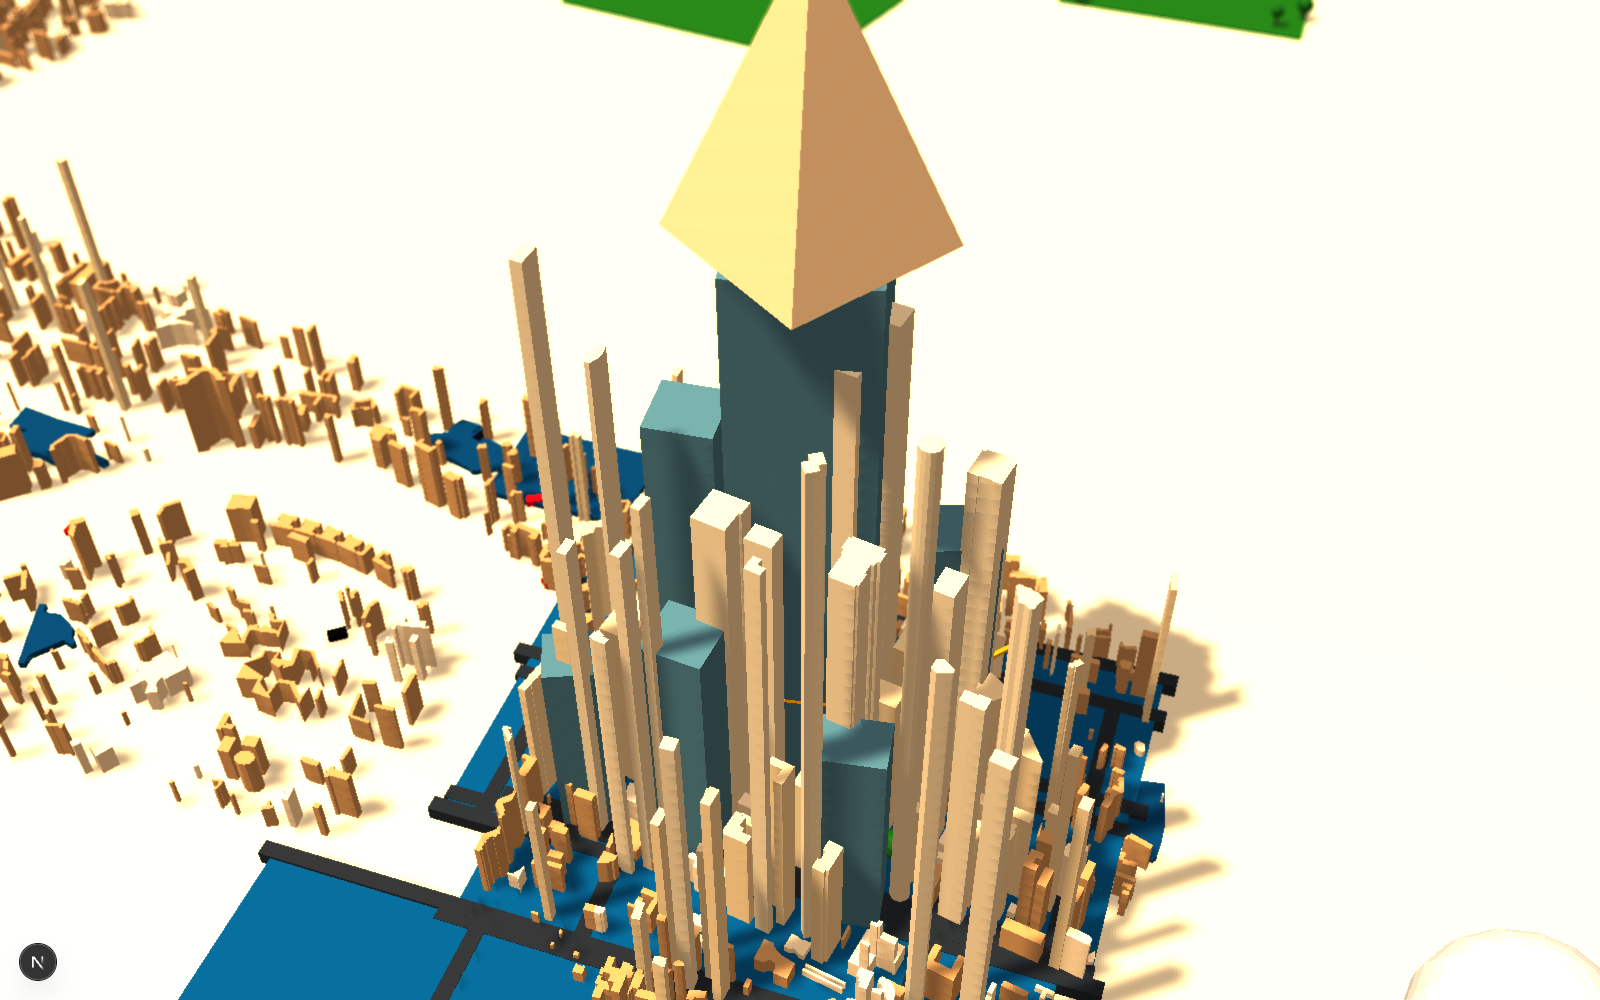
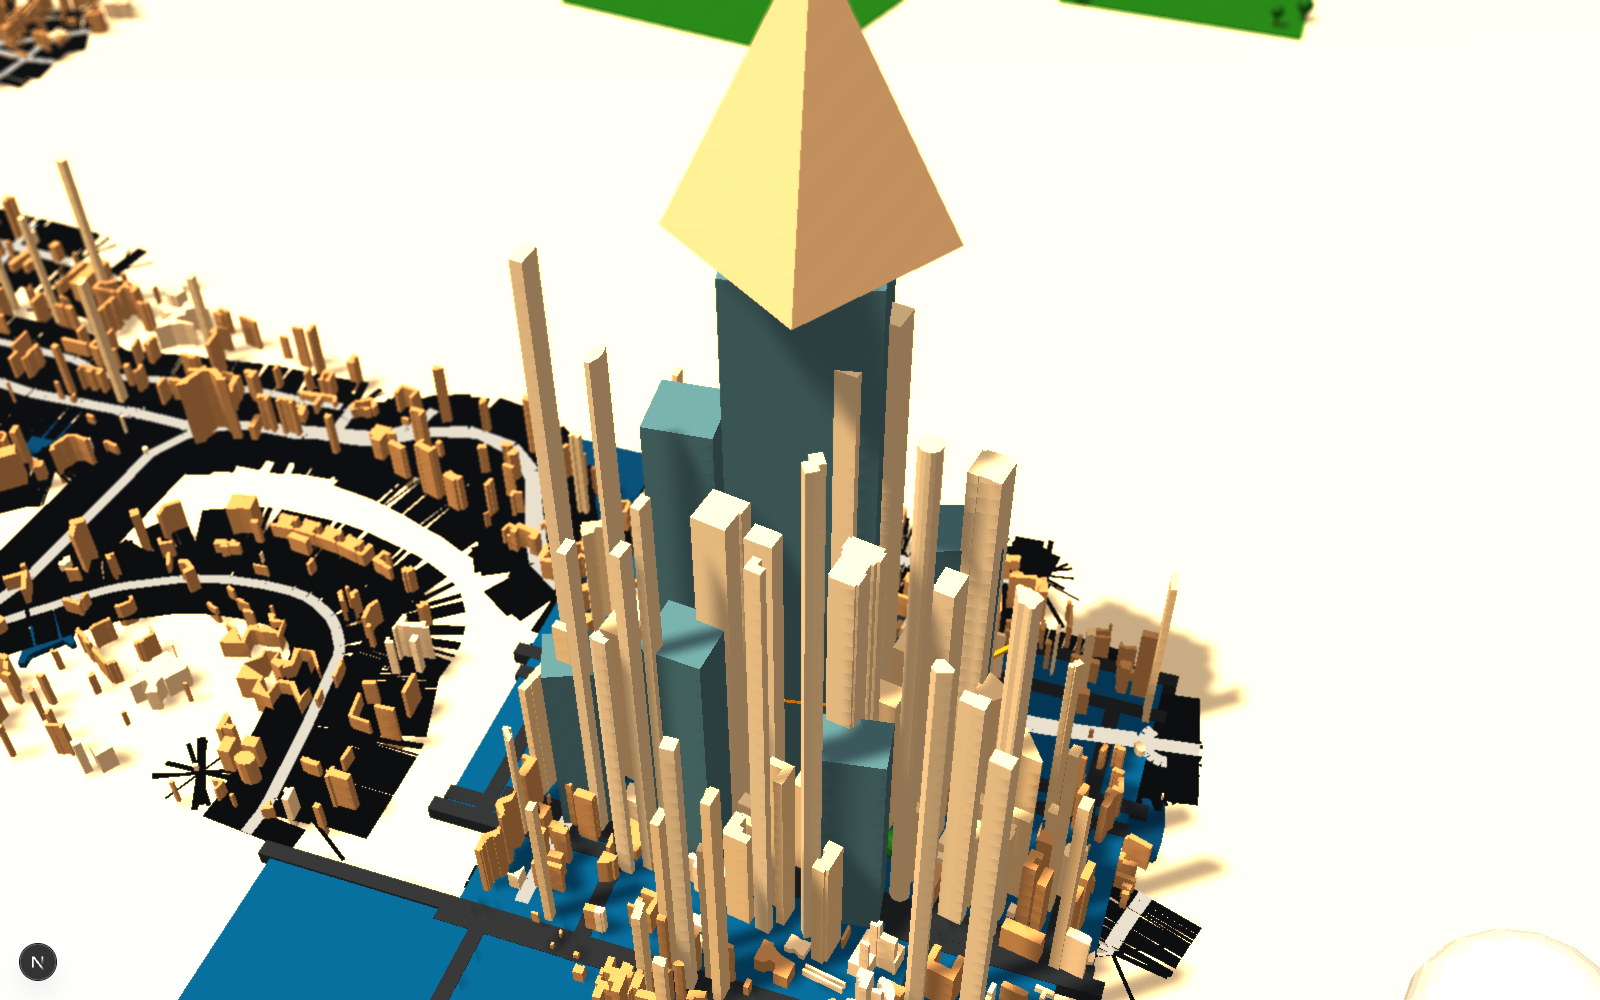
Show OSM street ribbons from the city camera and reshoot stills.
Per-segment quads were facing the land, so the whole-board view culled
the asphalt. Draw both sides, keep the cream lane paint, and replace the
whole-board, Shoreditch, and Canary stills. Camden is unchanged.

diff --git a/lib/game/board.ts b/lib/game/board.ts
@@ -276,7 +276,7 @@ function streetRibbon(line: readonly WorldPoint[], halfW: number, y: number): TH
     const nx = (-dz / len) * halfW;
     const nz = (dx / len) * halfW;
     positions.push(a.x + nx, y, a.z + nz, a.x - nx, y, a.z - nz, b.x + nx, y, b.z + nz, b.x - nx, y, b.z - nz);
-    indices.push(v, v + 1, v + 2, v + 2, v + 1, v + 3);
+    indices.push(v, v + 2, v + 1, v + 2, v + 3, v + 1);
     v += 4;
   }
   if (v < 4) return new THREE.BufferGeometry();
@@ -1044,6 +1044,7 @@ function addOsmFabric(
   const streetMat = new THREE.MeshBasicMaterial({
     color: 0x3b3f45,
     toneMapped: false,
+    side: THREE.DoubleSide,
     polygonOffset: true,
     polygonOffsetFactor: -8,
     polygonOffsetUnits: -8,
@@ -1051,6 +1052,7 @@ function addOsmFabric(
   const laneMat = new THREE.MeshBasicMaterial({
     color: 0xf5f1e8,
     toneMapped: false,
+    side: THREE.DoubleSide,
     polygonOffset: true,
     polygonOffsetFactor: -12,
     polygonOffsetUnits: -12,
